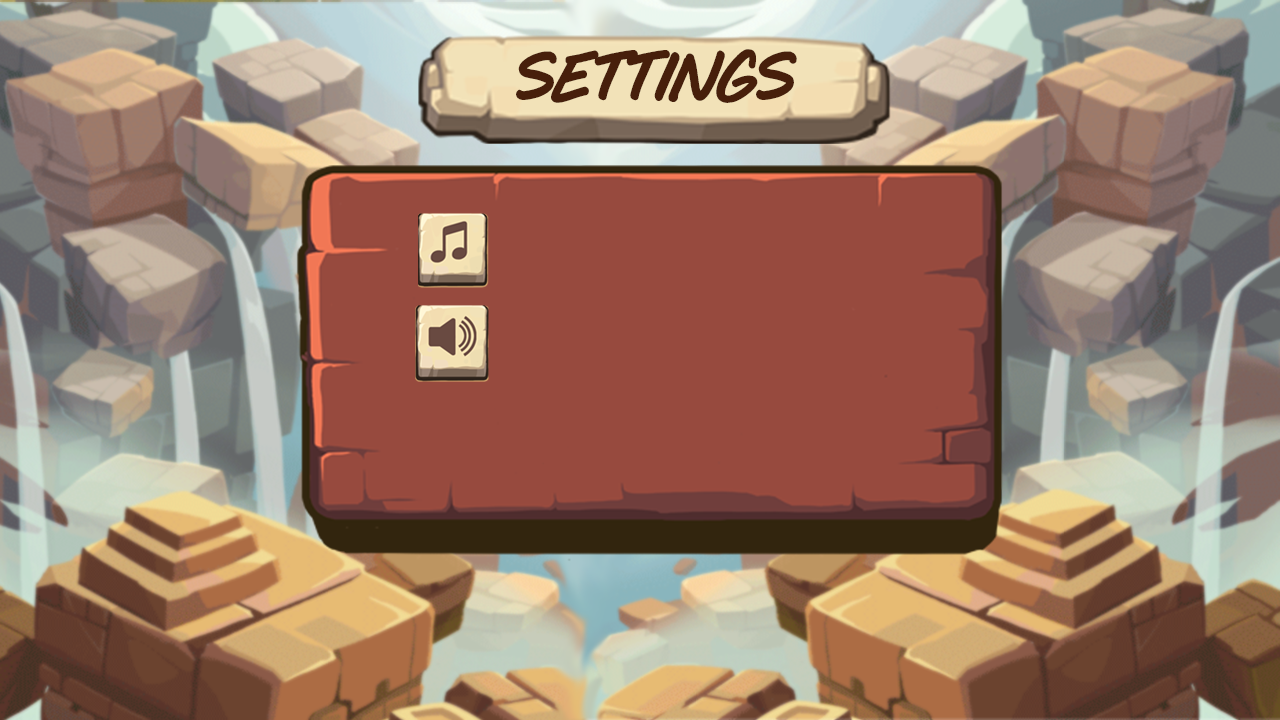
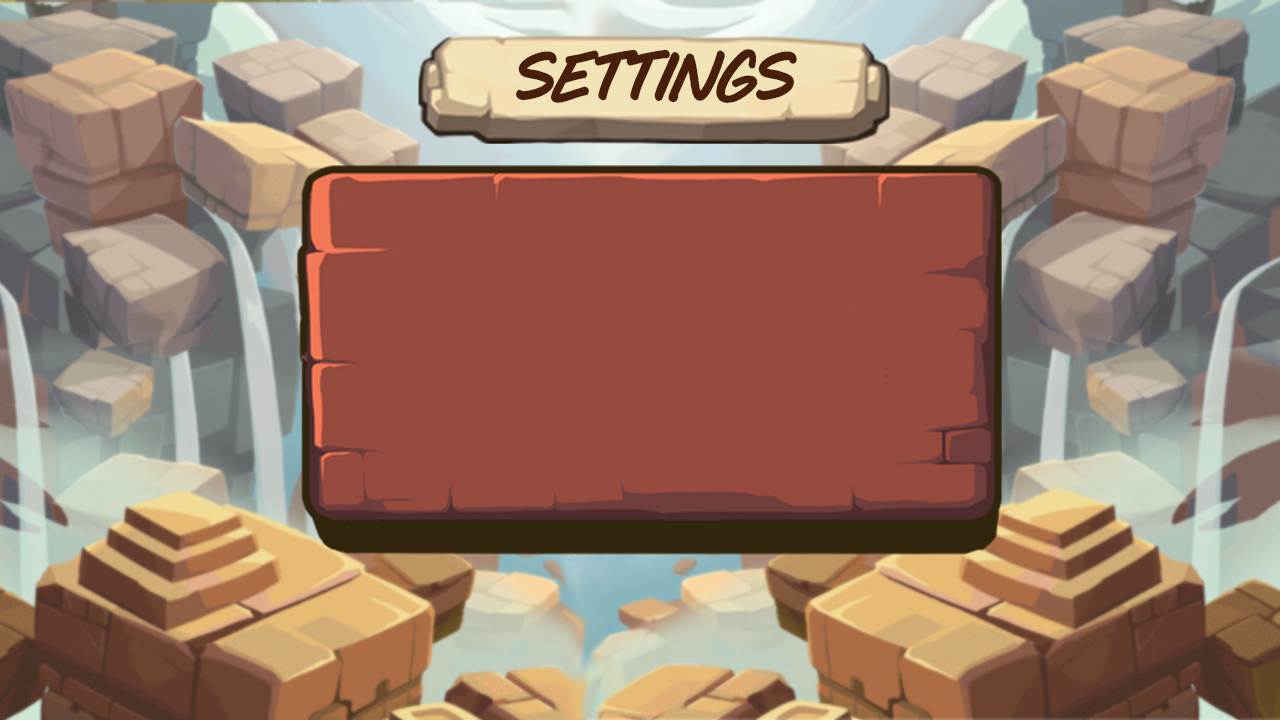
Updated settings menu with Toggle buttons and created graphics

Changed region(s): [[0.3125, 0.275, 0.4062, 0.55]]

diff --git a/libgdx/core/src/screens/Screens/SettingsMenu.java b/libgdx/core/src/screens/Screens/SettingsMenu.java
@@ -2,6 +2,7 @@ package screens.Screens;
 
 import com.badlogic.gdx.Gdx;
 import com.badlogic.gdx.Screen;
+import com.badlogic.gdx.audio.Sound;
 import com.badlogic.gdx.graphics.GL20;
 import com.badlogic.gdx.graphics.Texture;
 import com.badlogic.gdx.graphics.g2d.BitmapFont;
@@ -11,6 +12,7 @@ import com.badlogic.gdx.scenes.scene2d.Event;
 import com.badlogic.gdx.scenes.scene2d.EventListener;
 import com.badlogic.gdx.scenes.scene2d.InputEvent;
 import com.badlogic.gdx.scenes.scene2d.Stage;
+import com.badlogic.gdx.scenes.scene2d.ui.Button;
 import com.badlogic.gdx.scenes.scene2d.ui.Skin;
 import com.badlogic.gdx.scenes.scene2d.ui.Slider;
 import com.badlogic.gdx.scenes.scene2d.ui.Slider.SliderStyle;
@@ -22,29 +24,33 @@ import com.badlogic.gdx.utils.viewport.ScreenViewport;
 
 import screens.ScrabbleLauncher;
 
-public class SettingsMenu implements Screen{
+public class SettingsMenu implements Screen {
 
 	private ScrabbleLauncher game;
 	private Stage stage;
 	private Texture sliderBackgroundTexture;
 	private Texture sliderKnobTexture;
 	private Texture settingsBackground;
-	private Slider MusicSlider;
-	private Slider  soundSlider;
+	private Slider musicSlider;
+	private Slider soundSlider;
 	private TextButtonStyle textButtonStyle;
+	private TextButtonStyle textButtonStyle2;
+	private TextButtonStyle textButtonStyle3;
 	private BitmapFont font;
 	private Skin skin;
 	private TextureAtlas buttonAtlas;
+	private TextButton soundButton;
+	private Sound hover;
+	private TextButton musicButton;
 
-
-	
-	public SettingsMenu(ScrabbleLauncher game){
+	public SettingsMenu(ScrabbleLauncher game) {
 		this.game = game;
 		font = new BitmapFont();
+		hover = Gdx.audio.newSound(Gdx.files.internal("sounds/click02.wav"));
 		settingsBackground = new Texture("graphics/SettingsMenu/SettingsMenuBackground.png");
 		/// create stage and set it as input processor
 		stage = new Stage(new ScreenViewport());
-		
+
 	}
 
 	@Override
@@ -55,28 +61,28 @@ public class SettingsMenu implements Screen{
 		buttonAtlas = new TextureAtlas(Gdx.files.internal("graphics/BoardScreen/gameButtons.pack"));
 		skin.addRegions(buttonAtlas);
 
-		// music volume
-		sliderBackgroundTexture =new Texture(Gdx.files.internal("graphics/SettingsMenu/bar.png"));
+		// Music Slider volume control
+		sliderBackgroundTexture = new Texture(Gdx.files.internal("graphics/SettingsMenu/bar.png"));
 		sliderKnobTexture = new Texture(Gdx.files.internal("graphics/SettingsMenu/knob.png"));
 		SliderStyle ss = new SliderStyle();
 		ss.background = new TextureRegionDrawable(new TextureRegion(sliderBackgroundTexture));
 		ss.knob = new TextureRegionDrawable(new TextureRegion(sliderKnobTexture));
-		MusicSlider = new Slider(0f, 1f, 0.1f, false, ss);
-		MusicSlider.setValue(game.getTheme().getVolume());
-		MusicSlider.setPosition(522, 440);
-		MusicSlider.setSize(340f,48f);
-		MusicSlider.addListener(new EventListener() {
+		musicSlider = new Slider(0f, 1f, 0.1f, false, ss);
+		musicSlider.setValue(game.getTheme().getVolume());
+		musicSlider.setPosition(522, 440);
+		musicSlider.setSize(340f, 48f);
+		musicSlider.addListener(new EventListener() {
 			@Override
 			public boolean handle(Event event) {
-				game.getTheme().setVolume(MusicSlider.getValue());
-				
+				game.getTheme().setVolume(musicSlider.getValue());
+
 				return false;
 			}
 		});
-		stage.addActor(MusicSlider);
-		
-		// sound volume
-		sliderBackgroundTexture =new Texture(Gdx.files.internal("graphics/SettingsMenu/bar.png"));
+		stage.addActor(musicSlider);
+
+		// Sound Slider volume control
+		sliderBackgroundTexture = new Texture(Gdx.files.internal("graphics/SettingsMenu/bar.png"));
 		sliderKnobTexture = new Texture(Gdx.files.internal("graphics/SettingsMenu/knob.png"));
 		soundSlider = new Slider(0f, 1f, 0.1f, false, ss);
 		soundSlider.setValue(game.getSoundVol());
@@ -86,30 +92,76 @@ public class SettingsMenu implements Screen{
 			@Override
 			public boolean handle(Event event) {
 				game.setSoundVol(soundSlider.getValue());
-				
 				return false;
 			}
 		});
 		stage.addActor(soundSlider);
-		
+
+		// Music Toggle button
+		textButtonStyle2 = new TextButtonStyle();
+		textButtonStyle2.up = skin.getDrawable("musicButton");
+		textButtonStyle2.checked = skin.getDrawable("musicButtonPressed");
+		textButtonStyle2.over = skin.getDrawable("musicButtonHover");
+		textButtonStyle2.font = font;
+		musicButton = new TextButton("", textButtonStyle2);
+		musicButton.setPosition(411f, 425f);
+		musicButton.setSize(85.0f, 85.0f);
+		musicButton.addListener(new ClickListener() {
+			@Override
+			public void clicked(InputEvent event, float x, float y) {
+				game.getTheme().setVolume(0f);
+				musicSlider.setValue(0f);
+				if (musicButton.isChecked() == false) {
+					musicSlider.setValue(0.5f);
+				}
+
+			};
+		});
+
+		stage.addActor(musicButton);
+
+		// Sound Toggle button
+		textButtonStyle3 = new TextButtonStyle();
+		textButtonStyle3.up = skin.getDrawable("soundButton");
+		textButtonStyle3.checked = skin.getDrawable("soundButtonPressed");
+		textButtonStyle3.over = skin.getDrawable("soundButtonHover");
+		textButtonStyle3.font = font;
+
+		soundButton = new TextButton("", textButtonStyle3);
+		soundButton.setPosition(411.0f, 334.0f);
+		soundButton.setSize(85.0f, 85.0f);
+
+		soundButton.addListener(new ClickListener() {
+			@Override
+			public void clicked(InputEvent event, float x, float y) {
+				soundSlider.setValue(0f);
+				if (soundButton.isChecked() == false) {
+					soundSlider.setValue(1f);
+				}
+
+			};
+		});
+
+		stage.addActor(soundButton);
+
 		// Main menu button
-		textButtonStyle = new TextButtonStyle();	
-		textButtonStyle.up = skin.getDrawable("homeButton");		
-		textButtonStyle.over = skin.getDrawable("homeButtonPressed");	
+		textButtonStyle = new TextButtonStyle();
+		textButtonStyle.up = skin.getDrawable("homeButton");
+		textButtonStyle.over = skin.getDrawable("homeButtonPressed");
 		textButtonStyle.font = font;
-		
+
 		TextButton menu = new TextButton("", textButtonStyle);
-		menu.setPosition(550f,250f);
+		menu.setPosition(550f, 250f);
 		menu.setSize(206.0f, 61.0f);
-		
-		menu.addListener( new ClickListener(){
+
+		menu.addListener(new ClickListener() {
 			@Override
 			public void clicked(InputEvent event, float x, float y) {
 				game.setScreen(new MainMenuScreen(game));
+				hover.play(game.getSoundVol());
 			};
-		});	
+		});
 		stage.addActor(menu);
-		
 
 	}
 
@@ -118,12 +170,25 @@ public class SettingsMenu implements Screen{
 		// clear the screen ready for next set of images to be drawn
 		Gdx.gl.glClearColor(0f, 0f, 0f, 1);
 		Gdx.gl.glClear(GL20.GL_COLOR_BUFFER_BIT);
+		
+		// So the Sound button is checked when returning to settings menu
+		if (soundSlider.getValue() == 0) {
+			soundButton.setChecked(true);
+		} else 
+			soundButton.setChecked(false);
+		
+		// So the Music button is checked when returning to settings menu
+		if (game.getTheme().getVolume() == 0) {
+			musicButton.setChecked(true);
+		} else 
+			musicButton.setChecked(false);
+		
 		stage.getBatch().begin();
 		stage.getBatch().draw(settingsBackground, 0, 0);
 		stage.getBatch().end();
 		stage.draw();
 		stage.act();
-		
+
 	}
 
 	@Override
@@ -134,25 +199,25 @@ public class SettingsMenu implements Screen{
 	@Override
 	public void pause() {
 		// TODO Auto-generated method stub
-		
+
 	}
 
 	@Override
 	public void resume() {
 		// TODO Auto-generated method stub
-		
+
 	}
 
 	@Override
 	public void hide() {
 		// TODO Auto-generated method stub
-		
+
 	}
 
 	@Override
 	public void dispose() {
 		// TODO Auto-generated method stub
-		
+
 	}
 
 }
